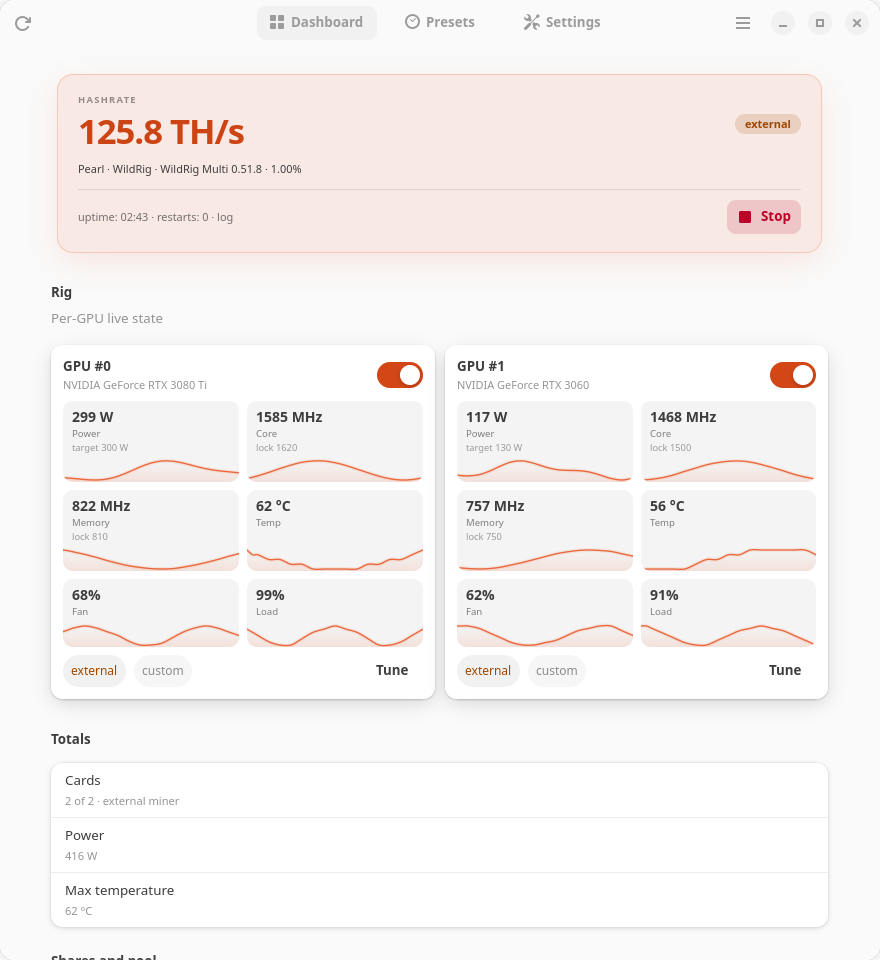
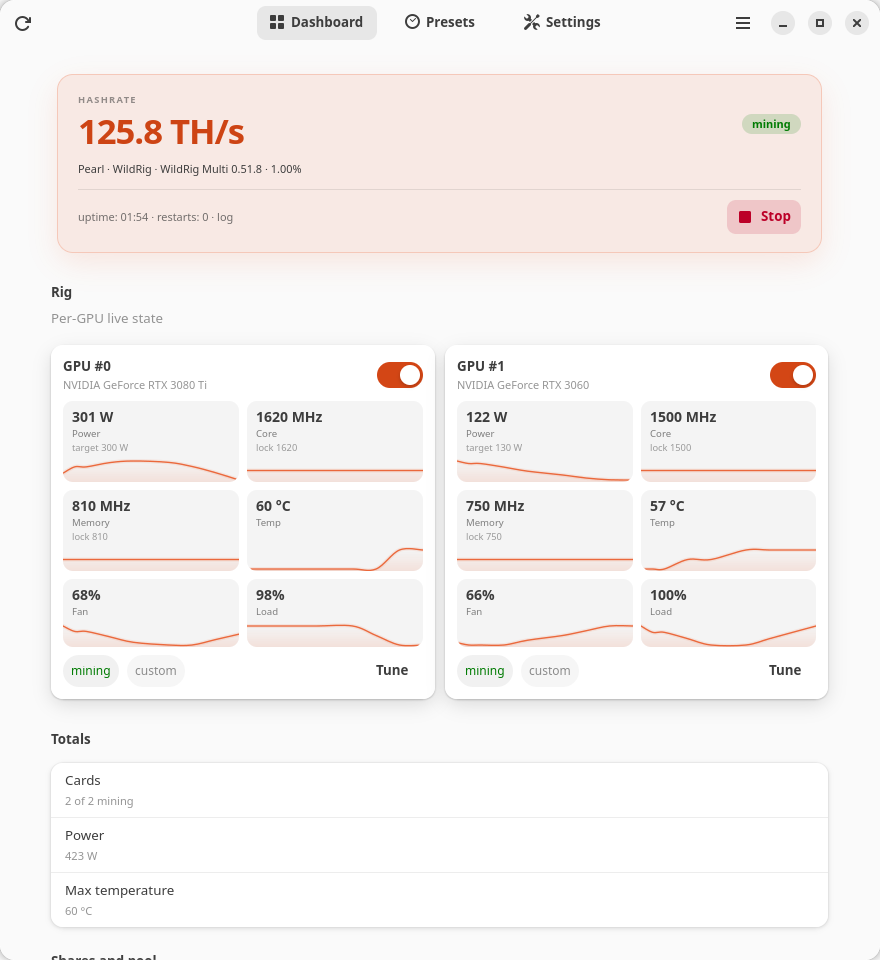
fix(docs): capture screenshots from a daemon-owned mining session
The script started a fake miner by hand while the config recorded a different
path, so the daemon adopted it as external and the dashboard/README hero read
"external miner". The daemon now starts the recorded DEMO_MINER itself with
the shared stateful fake rig and OC helper, applies and verifies the profile,
and a small jitter loop animates the live measurements. All 14 PNGs are
regenerated by scripts/screenshots.sh; no image was edited by hand.

diff --git a/docs/development.md b/docs/development.md
@@ -135,12 +135,15 @@ Runtime/test variables used outside the GUI:
 ./scripts/screenshots.sh
 ```
 
-Builds debug binaries, creates a fake two-GPU rig with a running fake miner,
-starts a private daemon and renders every surface into `docs/images/`. The
-script uses the hooks above, so a UI change should be visible there without
-manual work. Regenerate screenshots whenever the user guide references a changed
-surface; never commit screenshots from another machine or a different font
-stack.
+Builds debug binaries, creates a stateful fake two-GPU rig, starts a private
+daemon and lets **the daemon start the recorded demo miner itself** (`trommel
+start`), so the captures show an owned mining session rather than an adopted
+external process; the fake OC helper is the same one the e2e harness uses and
+the dashboard measurements are animated from the fake rig state. Every surface
+is rendered into `docs/images/`. The script uses the hooks above, so a UI change
+should be visible there without manual work. Regenerate screenshots whenever the
+user guide references a changed surface; never commit screenshots from another
+machine or a different font stack.
 
 ## Debugging
 
